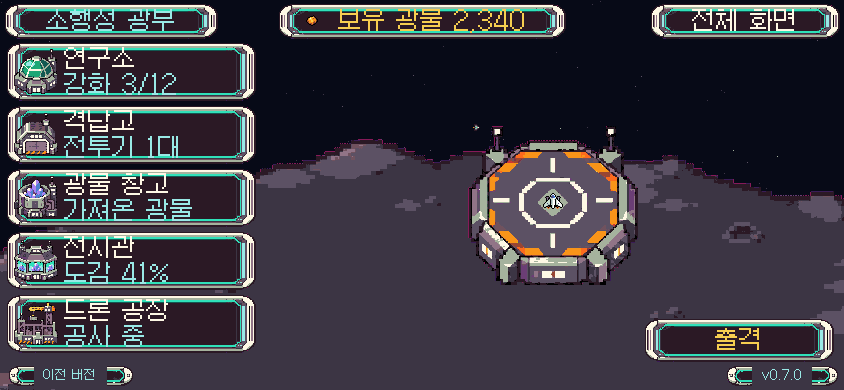
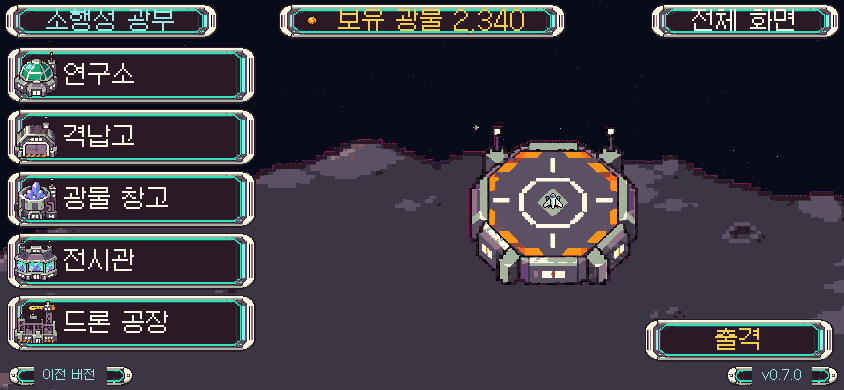
v0.7.0 기지 시안 B 폰 목록을 이름 한 줄로

Changed region(s): [[0.0, 0.0923, 0.3081, 0.7385], [0.0, 0.7692, 0.3081, 0.9231]]

diff --git a/review/v070_base/make_mockups.py b/review/v070_base/make_mockups.py
@@ -227,14 +227,17 @@ def mock_b(a, w, h, big, t=0, shift=0.0):
     ground = fit(a["ground_raw"], a["ground_box"], gw)
     paste(bg, ground, ((w - gw) // 2 + 40, h - ground.height // 2 + 10))
     col_w = 148 if not big else 250
-    y = 34 if not big else 42
-    row = 56 if not big else 63
+    y = 34 if not big else 46
+    row = 56 if not big else 62
     for i, s in enumerate(NAMES):
         paste(bg, nine("button", col_w, row - 4), (6, y))
         icon = build(a, i, 44)
         paste(bg, icon, (14, y + (row - 4 - icon.height) // 2))
-        text(bg, (64, y + (10 if not big else 3)), s, 12 if not big else 24, INK)
-        text(bg, (64, y + (26 if not big else 29)), ["강화 3/12", "전투기 1대", "가져온 광물", "도감 41%", "공사 중"][i], 12 if not big else 24, TEAL if i != 4 else TEAL)
+        if big:  # 폰은 24px 두 줄이 판 안에 안 들어가 이름만 둔다
+            text(bg, (64, y + (row - 4) // 2), s, 24, INK, "lm")
+        else:
+            text(bg, (64, y + 10), s, 12, INK)
+            text(bg, (64, y + 26), ["강화 3/12", "전투기 1대", "가져온 광물", "도감 41%", "공사 중"][i], 12, TEAL)
         y += row
     # 가운데 무대
     stage_x = col_w + 12 + (w - col_w - 12) // 2

diff --git a/PROGRESS.md b/PROGRESS.md
@@ -638,3 +638,4 @@
 - D 기지 화면 시안 (게임에 적용 안 함): 원인 분석과 시안 A 배치 유지, B 구성 새로, C 궤도 정거장, 대기 움직임 GIF. Codex 3장. 정리 `review/v070_base/design.md`
 - 판단: 계획서 27번의 "픽셀 크기가 다름"은 측정과 달랐음(PC는 같은 2화면 픽셀). 원인은 색 수, 코드 UI, 폰 소수 배율. 추천은 A. 카드 종류 표 글자가 알약 끝 장식에 겹쳐 여백을 넓힘(게임 수정 1줄)
 - D 1차 검토 불통과(C 이름표가 건물 위·모듈과 이름 불일치, B 폰 부제 작음, 상단 글자와 장식 겹침) → 4건 수용, 고침
+- D 2차 검토 불통과(B 폰 목록 두 줄이 판 테두리에 닿음) → 수용, 폰은 이름 한 줄로
